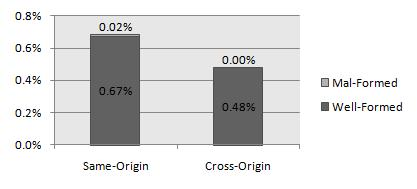
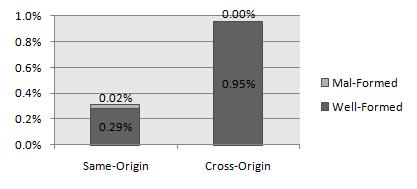
Update experiment results (50k data)

diff --git a/css.tex b/css.tex
@@ -166,7 +166,7 @@ Browsers use MIME types to determine how to handle the contents of HTTP response
 The HTTP cookie mechanism enables web sites to authenticate clients and maintain client states, allowing web sites to not only serve static content but customize the content and appearance for each session user. According to the standards, the browser always sends the user's cookie when it loads any referenced style sheets, including cross-origin CSS. If a user was logged into the \texttt{target.com} while visiting the evil page, the browser would send the user's authentication cookie on all requests to \texttt{target.com} and be considered as valid authenticated requests. This behavior exploits cookie-authenticated web sites and potentially leaks the user's sensitive information in the server's response.
 
 \subsection{Cross-Origin CSS Attack}
-In a cross-origin CSS attack, the attacker's main objective is to steal the victim's secret content on an honest web site from a different domain. The attacker is most likely interested in stealing any sensitive information in a cookie-authenticated web page, or preferably a secret CSRF token~\cite{csrf} hidden in the document that may allow the attacker to hijack the user's session. In order to steal content from a different domain, the attacker leverages the fact that the browser's security policy allows external style sheets to be imported from cross-origin. The target document on an honest web site is injected such that portions of the document conform to CSS rules. As soon as the victim visits the attacker's evil page, the cross-origin data is imported as style sheets and stolen. The steps of the cross-origin CSS attack is shown in Figure~\ref{figure:steps}. To describe the cross-origin CSS attack in detail, we decompose the attack into three main steps: CSS string injection, cross-origin CSS import, and confidential data extraction.
+In a cross-origin CSS attack, the attacker's main objective is to steal the victim's secret content on an honest web site from a different domain. The attacker is most likely interested in stealing any sensitive information in a cookie-authenticated web page, or preferably a secret CSRF token~\cite{csrf} hidden in the document that may allow the attacker to hijack the user's session. In order to steal content from a different domain, the attacker leverages the fact that the browser's security policy allows external style sheets to be imported from cross-origin. The target document on an honest web site is injected such that portions of the document conform to CSS rules. As soon as the victim visits the attacker's evil page, the cross-origin data is imported as style properties and stolen. The steps of the cross-origin CSS attack is shown in Figure~\ref{figure:steps}. To describe the cross-origin CSS attack in detail, we decompose the attack into three main steps: CSS string injection, cross-origin CSS import, and confidential data extraction.
 
 \begin{figure*}
 \centering
@@ -186,10 +186,10 @@ Target document:
 After injection:
 <HTML>..{} BODY { font-family: "SECRET" }..</HTML>
 \end{verbatim}
-The injected HTML document will appear to the CSS parser as containing a valid CSS rule. The fonts of the attacker's page will be styled with a font-family specified as the stolen string ``SECRET''. Note that the seemingly redundant pair of brackets in the injection string re-syncs the CSS parser to make sure that the evil CSS rule parses properly. All the other non-CSS text in the document are skipped by the CSS parser, thus will not effect the parsing of the evil CSS rule. Once the crafted document is loaded, the attacker can easily steal the secret string from the computed \texttt{font-family} style of the attacker's page.
+The injected HTML document will appear to the CSS parser as containing a valid CSS rule. The fonts of the attacker's page will be styled with a font-family specified as the stolen string ``SECRET''. Note that the seemingly redundant pair of brackets in the injection string re-syncs the CSS parser to make sure that the evil CSS rule parses properly. All the other non-CSS text in the document are skipped by the CSS parser, thus will not effect the parsing of the evil CSS rule. Once the injected document is loaded, the attacker can easily steal the secret string from the computed \texttt{font-family} style of the attacker's page.
 
 \subsubsection{Cross-Origin CSS Import}
-When the user visits \texttt{attacker.com}, the attacker's evil page instructs the victim's browser to fetch and load the crafted document as a style sheet. In HTML specifications~\cite{html}, documents can import external style sheets from remote servers by using the CSS \texttt{@import} notation, or using the link tag inside the head element as the following: .
+When the user visits \texttt{attacker.com}, the attacker's evil page instructs the victim's browser to fetch and load the injected document as a style sheet. In HTML specifications~\cite{html}, documents can import external style sheets from remote servers by using the CSS \texttt{@import} notation, or using the link tag inside the head element as the following: .
 \begin{verbatim}
 <HTML>
 <HEAD>
@@ -208,7 +208,7 @@ can extract the stolen data even with JavaScript disabled.
 \paragraph{With JavaScript}
 One method of data extraction is to access the computed styles or CSS text in DOM using JavaScript. All major browsers support using JavaScript to read computed styles, even loaded from cross-origin, by calling the \texttt{window.getComputedStyle} method or retrieving the \texttt{currentStyle} object. The cross-origin CSS vulnerabilities of DOM access on major browsers are shown in Table~\ref{table:DOM}. Given that the style name and property name is known, the attacker can extract the confidential data from the injected style property. WebKit-based browsers, i.e. Safari and Google Chrome, even surrendered the full CSS text of style sheets, including CSS rules loaded from cross-origin (without comments, thankfully). The attacker could read the raw text of cross-origin CSS via \texttt{document.styleSheets[].cssRules[].cssText} and also \texttt{window.getMatchedCSSRules().cssText}. This behavior violates the same-origin policy and can cause cross-origin data leak in pages with semi-valid CSS constructs. Other browsers only permit read access to the raw text of style sheets under restricted conditions. Internet Explorer allows access to cross-origin CSS raw text via \texttt{document.styleSheets[].rules[].style.cssText} only if the MIME type is correct. Firefox and Opera only allows access to CSS raw text for style sheets loaded from same-origin. Even if access to raw CSS text is blocked, the ability to read cross-origin loaded CSS styles is enough to construct serious attacks.
 
-After extracting the sensitive content hidden in the style properties, the attacker can send the secret data to his own evil servers or even mount CSRF attacks. There are various methods to export data to other origins, in this specific attack we are interested in approaches where no user involvement is required, e.g. using the \texttt{XMLHttpRequest} API.
+After extracting the sensitive content hidden in the style properties, the attacker can send the secret data to his own evil servers or even mount CSRF attacks. There are various methods to export data to other origins, in this specific attack we are interested in approaches where no user involvement is required, e.g. using JavaScript to send data through an HTML hidden form or through the \texttt{XMLHttpRequest} API.
 
 \begin{table}
 \centering
@@ -266,9 +266,9 @@ In this section, we present an example of the cross-origin CSS attack using e-ma
 
 \paragraph{Yahoo! Mail} Yahoo! Mail is a free web mail service that lets users send and receive e-mails using any popular web browser with cookies and JavaScript enabled. After a user signs in with a valid account, the web site will authenticate the user with browser session cookies for as long as two weeks without signing out. Targeting the web mail home page, the attacker can mount an attack on victims that are signed into their accounts with the following steps:
 \begin{enumerate}
-\item{The attacker sends an evil e-mail to the victim's account with a CSS property termination string in the subject, such as `\texttt{);\}}'.}
+\item{The attacker sends an evil e-mail to the victim's account with a CSS property termination string in the subject, such as ``\texttt{);\}}''.}
 \item{The attacker waits for sensitive e-mails to fill the victim's inbox.}
-\item{The attacker sends another evil e-mail to the victim's account with a CSS property opening string in the subject, such as `\texttt{\{\}body\{background-image:url(}'.}
+\item{The attacker sends another evil e-mail to the victim's account with a CSS property opening string in the subject, such as ``\texttt{\{\}body\{background-image:url(}''.}
 \item{The victim visits \texttt{attacker.com}, which triggers the cross-origin CSS attack and steals secret data from the victim's inbox.}
 \end{enumerate}
 The attacker's evil page references the URL of web mail home page as a CSS resource and extracts the stolen data from the computed \texttt{background-image} style using JavaScript, as the following:
@@ -299,7 +299,7 @@ In this section, we describe the defenses against cross-orgin CSS attacks. First
 To prevent cross-origin CSS attacks, we propose that browsers should apply stricter checking when loading cross-origin CSS files. Our initial approach is to enforce strict MIME type checking for loading cross-origin CSS files, we refer as the strict approach. We devise a conservative approach with additional CSS parser testing that maximizes web site compatibility while blocking most attacks.
 
 \subsubsection{Strict Approach}
-In the cross-origin CSS attack, the attacker's evil web page confuses the victim's browser to parse an injected non-CSS document as a style sheet. If browsers strictly required external style sheets to specify the correct MIME type, which is \texttt{text/css}, the evil web page would not be able to load any crafted document. One effective solution is to let browsers always check the MIME type of external CSS references and block any CSS load with an invalid MIME type. When strict MIME type checking is enforced, at least for cross-origin CSS loads (if not globally), browsers would be able to protect target non-CSS documents from being stolen.
+In the cross-origin CSS attack, the attacker's evil web page confuses the victim's browser to parse the injected target document as a style sheet. If browsers strictly required external style sheets to specify the correct MIME type, which is \texttt{text/css}, the evil web page would not be able to load any crafted non-CSS document. One effective solution is to let browsers always check the MIME type of external CSS references and block any CSS load with an invalid MIME type. When strict MIME type checking is enforced, at least for cross-origin CSS loads (if not globally), browsers would be able to protect target non-CSS documents from being stolen.
 
 The major concern of the strict approach is that any misconfigured cross-origin resources that fail to provide valid MIME types would be blocked. Strict MIME type checking relies on web developers to correctly deploy their web sites and provide valid MIME types. Unless every web developer properly configures their servers to send the correct \texttt{Content-Type} response header, the strict approach will inevitably introduce false positives and cause CSS failure on web sites. Expectedly, browser vendors would tend to resist changes that would cause web site breakage and lose its users.
 
@@ -328,48 +328,44 @@ The above rules will block most cross-origin CSS attacks because the target docu
 To evaluate the compatibility of our proposed defense of stricter CSS loading, we conducted an experiment to measure how often web servers fail to provide the correct MIME type for CSS files and whether these CSS files are well-formed when loaded cross-origin.
 
 \paragraph{Design}
-To measure how often web servers fail to provide the correct MIME type for CSS files, we collected metrics by crawling the top 10,000 web sites ranked by Alexa~\cite{alexa} and scanned through all of the style sheet resources in their home pages. We are interested in all CSS references including using HTML link tags and CSS \texttt{@import} directives. Furthermore, some web sites dynamically add CSS links using JavaScript while the page loads. To achieve a more thorough scan for these CSS references, we conducted our experiment to directly render these web pages with an instrumented WebKit browser while recording information of all CSS loads until the web page finishes loading.
+To measure how often web servers fail to provide the correct MIME type for CSS files, we collected metrics by crawling the top 50,000 web sites ranked by Alexa~\cite{alexa} and scanned through all of the style sheet resources in their home pages. We are interested in all CSS references including using HTML link tags and CSS \texttt{@import} directives. Furthermore, some web sites dynamically add CSS links using JavaScript while the page loads. To achieve a more thorough scan for these CSS references, we conducted our experiment to directly render these web pages with an instrumented WebKit browser while recording information of all CSS loads until the web page finishes loading.
+
+\paragraph{Results}
+From the top 50,000 web sites, we fetched a total of 138,924 CSS references, including 114,596 HTML link tags and 24,328 CSS \texttt{@import} directives. These results include 108,545 same-origin references and 30,379 cross-origin references. We did not include data for sites unreachable during our evaluation, due to unresponding servers or domain name errors. Our results are shown in Figure~\ref{figure:MIME}.
+
+\begin{figure}
+\centering
+\includegraphics[width=\linewidth]{mime.jpg}
+\caption{CSS Files with Misconfigured MIME in Top 50,000 Sites excluding HTTP errors and landing page redirection}
+\label{figure:MIME}
+\end{figure}
+
+In the top 50,000 sites, our crawler logged a total of 1,773 misconfigured CSS references that did not provide the correct \texttt{Content-Type} response header. We noticed that 1,091 of these CSS references retrieved HTTP responses with error status codes i.e. 400 bad request, 403 forbidden, 404 not found, 500 internal server error, 502 bad gateway or 503 service temporarily unavailable, and have no affect to the rendering of the page if blocked. For HTTP responses that did not specify the \texttt{Content-Type} header at all, we considered them identical as setting an empty MIME type. Excluding the HTTP errors, we logged a total of 287 CSS references that provided an empty MIME type. There were as many as 332 CSS references that provided the \texttt{text/html} MIME type for CSS files, which is normally for HTML documents. However, within these \texttt{text/html} responses we found that 56 of them were less serious conditions, where the specified URL was not found and was redirected to a landing page or an error page (with HTTP status code 200). Excluding CSS references with HTTP errors or landing page redirections, the percentage of the common misconfigured MIME types for CSS files in the top 50,000  sites are shown in Table~\ref{table:MIME}. Other MIME types represent various less-frequent \texttt{Content-Type} headers that our crawler collected for CSS files including \texttt{S3Object}, \texttt{application/x-javascript}, \texttt{application/binary}, \texttt{application/x-pointplus}, \texttt{application/x-troff}, \texttt{text}, \texttt{text/javascript}, \texttt{text/x-c}, \texttt{image/gif} and \texttt{Content-Type:text/css}.
 
 \begin{table}
 \centering
 \begin{tabular}{|c|c|c|} \hline
 Content-Type&Percentage\\ \hline
-\texttt{text/html}&87.78\%\\ \hline
-Empty&7.56\%\\ \hline
-\texttt{text/plain}&1.74\%\\ \hline
-Other&2.90\%\\
+Empty (excluding HTTP errors)&45.85\%\\ \hline
+\texttt{text/html} (excluding landing pages)&44.09\%\\ \hline
+\texttt{application/octet-stream}&3.83\%\\ \hline
+\texttt{text/plain}&3.51\%\\ \hline
+Other MIME types&2.72\%\\
 \hline\end{tabular}
-\caption{Common Misconfigured MIME Types in Top 10,000 Sites}
+\caption{Common Misconfigured MIME Types in Top 50,000 Sites}
 \label{table:MIME}
 \end{table}
 
-\paragraph{Results}
-From the top 10,000 web sites, we fetched a total of 27532 CSS references, including 22799 link tags and 4733 \texttt{@import} directives. These results do not include unreachable web sites nor unreachable CSS resources.
-Our results are shown in Table~\ref{table:MIME}.
+Our crawler reported that 541 CSS references were mal-formed, in which the CSS resource failed to have a syntactically valid CSS construct at the beginning of the file. Within these mal-formed CSS files, 466 of them were same-origin loads and 75 of them were cross-origin loads. We noticed that one of the common syntax errors was starting the CSS file with an HTML style tag. Within the CSS references that provided incorrect MIME types, we found there were 26 CSS files that were syntatically mal-formed. In our observations, all 26 were same-origin loads and none of them were cross-origin loads.
 
-We found that as many as 172 CSS references on these popular sites did not provide the correct \texttt{Content-Type} response header. In most cases, we found that misconfigured servers provided the \texttt{text/html} MIME type for CSS files, which is for normal HTML documents. Some CSS files did not specify the \texttt{Content-Type} header in the response at all, thus had an empty MIME type. Our browser collected a list of various incorrect MIME types for CSS files, including \texttt{text/html}, \texttt{text/plain}, \texttt{text}, \texttt{application/octet-stream}, \texttt{application/x-pointplus}, \texttt{image/gif}, \texttt{Content-Type:text/css} and empty MIME type.
+Within a total of 30379 cross-origin CSS references, we observed 290 CSS references that provided an invalid MIME type. Applying the strict approach of our proposed defense would cause CSS failure in 255 out of the top 50,000 sites. We also observed that all of theses cross-origin CSS files with broken MIME types were syntactically well-formed. Thus, apply our conservative approach would not induce false positives, or undesired CSS failures.
 
-Our crawler reported that 93 CSS files were mal-formed, which fail to have a syntactically valid CSS construct at the beginning to the file. There were three CSS files that were mal-formed and also have a broken MIME type, however none of these CSS files were cross-origin loads.
-
-Within a total of 8352 cross-origin CSS loads, there were 40 of them that had a broken MIME type. Blocking these loads would cause CSS failure on 32 of the 10000 most popular web sites. However, we also observed that none of the cross-origin CSS files with broken MIME types were mal-formed.
-
-%We ran a scan across the top 500,000 URLs looking for cross-origin loads of CSS with an invalid MIME type. Valid MIME types are defined as text/css, application/x-unknown-content-type, and empty. There were a total of 140 URLs detected that referenced cross-origin CSS with broken MIME types. We found that some of them were non-serious conditions, in which the site loaded a CSS file which is missing and redirected to a 404 html page. There were 60 URLs that would be considered as broken, including 13 with text/plain, 15 with text/html, 31 with application/css, and 1 with application/x-pointplus. If we apply the heuristics of the conservative approach, only one URL that served text/html MIME would fail to load, which was severely broken because it had valid CSS rules after a style tag.
-
-\begin{figure}
-\centering
-\includegraphics[width=\linewidth]{mime.jpg}
-\caption{CSS Files with Misconfigured MIME in Top 10,000 Sites}
-\label{table:MIME}
-\end{figure}
+%We ran a scan across the top 500,000 URLs looking for cross-origin loads of CSS with an invalid MIME type. Valid MIME types are defined as text/css, application/x-unknown-content-type, and empty. There were a total of 140 URLs detected that referenced cross-origin CSS with broken MIME types. There were 60 URLs that would be considered as broken, including 13 with text/plain, 15 with text/html, 31 with application/css, and 1 with application/x-pointplus. If we apply the heuristics of the conservative approach, only one URL that served text/html MIME would fail to load, which was severely broken because it had valid CSS rules after a style tag.
 
 \paragraph{Discussion}
-Based on our results, deploying the strict approach
-would break CSS references on 0.32\% of the top web sites. Although this
-fraction may seem low, browser vendors have historically been reluctant to
-deploy changes that break popular web sites. Our observations also suggest that misconfigured servers commonly send the \texttt{text/html} MIME type
-regardless of the served content type.
+Based on our results, deploying the strict approach would break CSS references on 0.51\% of the top web sites. Although this fraction may seem low, browser vendors have historically been reluctant to deploy changes that break popular web sites. Our observations also suggest that misconfigured servers commonly send an empty MIME type or the \texttt{text/html} MIME type regardless of the served content type.
 
-In our observations, the conservative approach did not break a single CSS reference in the top $10,000$ web sites. The conservative approach is an appealing defense because it maximizes web site compatibility while blocking the cross-origin CSS attack.
+In our observations, the conservative approach did not break a single CSS reference in the top $50,000$ web sites. The conservative approach is an appealing defense because it blocks the cross-origin CSS attack while maximizing web site compatibility.
 
 Due to practical limitations of our automated scanning, all of the tested links were unauthenticated. It is possible that more sites will be broken after logging in.
 
@@ -445,16 +441,16 @@ However, the OP browser does maintain a detailed security audit log that could
 be used by forensics experts to identify the site where the attack originated.
 
 \subsection{Gazelle Browser}
-The Gazelle browser~\cite{gazelle} is proposed as a secure web browser that exclusively controls resource protection and sharing across web sites, or principals, as a multi-principal OS. In their architecture, all cross-principal communication are explicitly mediated by the browser kernel to prevent cross-origin attacks. Thus, cross-origin resources are protected and only retrieved if the content is a script or a style sheet based on the Content-Type header of the HTTP response. Gazelle provides the same protection against cross-origin CSS attacks as the strict MIME type checking approach at the cost of site incompatibility. From our compatibility evaluation results, the strict approach would cause CSS failure on 32 of the top 10,000 web sites.
+The Gazelle browser~\cite{gazelle} is proposed as a secure web browser that exclusively controls resource protection and sharing across web sites, or principals, as a multi-principal OS. In their architecture, all cross-principal communication are explicitly mediated by the browser kernel to prevent cross-origin attacks. Thus, cross-origin resources are protected and only retrieved if the content is a script or a style sheet based on the Content-Type header of the HTTP response. Gazelle provides the same protection against cross-origin CSS attacks as the strict MIME type checking approach at the cost of site incompatibility. From our compatibility evaluation results, the strict approach would cause CSS failure on 255 of the top 50,000 web sites.
 
 \section{Conclusions} \label{sec:conclusion}
 In this paper, we presented two defense approaches for cross-origin CSS attacks. The strict approach is based on solely on MIME type
 checking, while the conservative approach uses the CSS parser to
 address web site compatibility issues. We evaluated the compatibility of our
-proposed solution over the top 10,000 web sites. Without relying on web site
+proposed solution over the top 50,000 web sites. Without relying on web site
 modifications, the conservative approach completely mitigates the attack while
 maximizing site compatibility. We found that common server misconfigurations
-introduced false positives in the strict approach and would cause 0.32\%
+introduced false positives in the strict approach and would cause 0.51\%
 sites to render incorrectly. We recommend that web administrators should
 properly configure servers to provide correct MIME types to reduce false
 positives. Our proposal has been adopted in several major browsers, including
